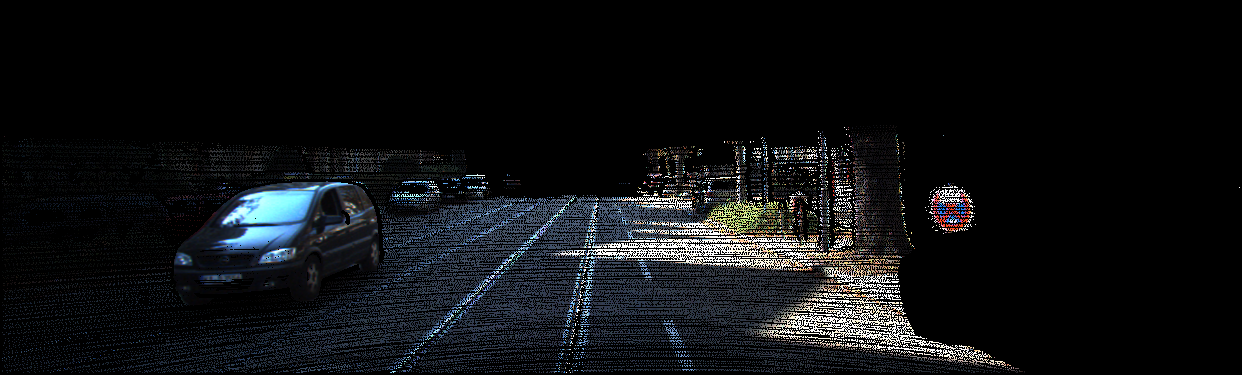
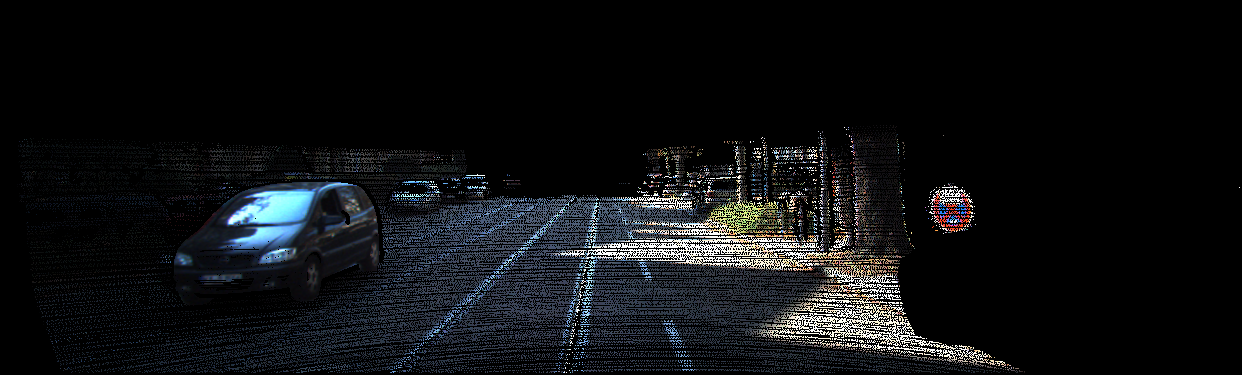
add standard 3D projection pipeline

diff --git a/points_vis.py b/points_vis.py
@@ -90,15 +90,22 @@ def kitti_project_depth(src_depth):
     import imageio
     imageio.imwrite('projected_depth.png', projected_depth)
 
-def kitti_sample_world_coords(left_image, left_disp, scale=1):
+def kitti_sample_world_coords(right_image, left_image, left_disp, scale=2):
+    # project right view to left view given left view direction
     # scale test
     mask = (left_disp > 0) & (left_disp < 192)
-    left_disp = left_disp * mask - 10
+    # mask = F.avg_pool2d(mask.float(), (4, 4), stride=2) > 0.25
+    # right_image = F.avg_pool2d(right_image, (2, 2), stride=2)
     # left_image = F.avg_pool2d(left_image, (2, 2), stride=2)
     # left_disp = F.avg_pool2d(left_disp, (2, 2), stride=2) / scale
+    right_image = F.interpolate(right_image, scale_factor=0.5, mode='bilinear')
+    left_image = F.interpolate(left_image, scale_factor=0.5, mode='bilinear')
+    left_disp = F.interpolate(left_disp[None], scale_factor=0.5, mode='bilinear') / scale
+    mask = F.interpolate(mask[None].float(), scale_factor=0.5, mode='bilinear') > 0.5
+    # left_disp = left_disp * mask + 3
 
     focal_length = 721.277 / scale
-    N, C, H, W = left_image.shape
+    N, C, H, W = right_image.shape
     left_depth = (0.54 * focal_length) / (left_disp + 1e-6)
     left_depth = left_depth.view(-1, 1)
     # convert camera coords to world coords
@@ -106,16 +113,86 @@ def kitti_sample_world_coords(left_image, left_disp, scale=1):
     
     # compute right world coods
     world_coords_xy = camera_coords / focal_length * left_depth
-    world_coords_xy[:, 0] = (world_coords_xy[:, 0])
+    world_coords_xy[:, 0] = world_coords_xy[:, 0] - 0.54
     world_coords = torch.cat((world_coords_xy, left_depth), dim=-1)
     right_sample_coords = world_coords[:, :-1] / world_coords[:, -1:] * focal_length
-    
+
     right_sample_coords = right_sample_coords.view(1, H, W, -1).permute(0, 3, 1, 2)
     right_image_sampled = normalize_coords(right_sample_coords)
-    warped_img = F.grid_sample(left_image, right_image_sampled, mode='bilinear', padding_mode='border')
+    warped_img = F.grid_sample(right_image, right_image_sampled, mode='nearest', padding_mode='zeros')
     warped_img = warped_img * mask
+    
+    # warping by disparity
+    warped_left, valid_mask = disp_warp(right_image, left_disp)
+    warped_left = warped_left * mask  
+    TensorToPILImage(warped_left[0], saving_path='disp_warped_right.png')
+
     TensorToPILImage(warped_img[0], saving_path='warped_right.png')
     TensorToPILImage(left_image[0], saving_path='scale_left.png')
+
+def kitti_sample_pipeline(right_image, left_image, left_disp, scale=1):
+    mask = (left_disp > 0) & (left_disp < 192)
+    H, W = right_image.shape[-2:]
+    baseline = 0.54
+    focal_length = 721.277
+    if scale > 1:
+        mask = F.avg_pool2d(mask.float(), (2, 2), stride=2) > 0
+        right_image = F.avg_pool2d(right_image, (2, 2), stride=2)
+        left_image = F.avg_pool2d(left_image, (2, 2), stride=2)
+        left_disp = F.avg_pool2d(left_disp, (2, 2), stride=2) / scale
+        focal_length = focal_length / scale
+    
+    K = torch.Tensor(np.array([
+        [721.277, 0., 0.5 * H],
+        [0., 721.277, 0.5 * W],
+        [0., 0., 1.]
+    ]))
+
+    Rt = torch.Tensor(np.array([
+        [1, 0, 0, -baseline],
+        [0, 1, 0, 0],
+        [0, 0, 1, 0],
+    ]))
+
+    direction = get_ray_directions(left_disp, focal_length)
+    rays_d, rays_o = get_rays(direction, Rt)
+    
+    depth = focal_length * baseline / (left_disp + 1e-6).view(-1, 1)
+    world_coord = rays_o + depth * rays_d
+    
+    # world to pixel coord
+    world_coord[:, 0] = world_coord[:, 0] / world_coord[:, -1] * focal_length + 0.5 * H
+    world_coord[:, 1] = world_coord[:, 1] / world_coord[:, -1] * focal_length + 0.5 * W
+    camera_coord = world_coord[:, :-1]
+    camera_coord = camera_coord.view(1, H, W, -1).permute(0, 3, 1, 2)
+    right_image_sampled = normalize_coords(camera_coord)
+    
+    warped_img = F.grid_sample(right_image, right_image_sampled, mode='bilinear', padding_mode='zeros')
+    warped_img = warped_img * mask
+    TensorToPILImage(warped_img[0], saving_path='warped_right.png')
+
+def get_ray_directions(left_disp, focal, center=None):
+    H, W = left_disp.shape[-2:]
+
+    camera_coords = generate_meshgrid(left_disp).view(-1, 2)
+    center = [H/2, W/2]
+    # convert pixel coord to camera coord
+
+    camera_coords[:, 0] = camera_coords[:, 0] - center[0]
+    camera_coords[:, 1] = camera_coords[:, 1] - center[1]
+    direction = camera_coords / focal
+    
+    direction  = torch.cat((direction, torch.ones(camera_coords.shape[0], 1)), dim=-1)
+    
+    return direction
+
+def get_rays(direction, c2w):
+    rays_d = direction @ c2w[:3, :3].T
+    rays_o = c2w[:3, -1].expand(rays_d.shape)       # H, W, 3
+    # rays_d = rays_d.view(-1, 3)
+    # rays_o = rays_o.view(-1, 3)
+    return rays_d, rays_o
+    
 
 def get_patches(rays_all, patch_size, num_patches, disp):
     '''
@@ -217,7 +294,12 @@ if __name__ == '__main__':
         
         # generate projected depth
         # kitti_project_depth(disp_tensor[:, None])
-        kitti_sample_world_coords(left_tensor[None], disp_tensor)
+
+        # pixel sample given coords
+        # kitti_sample_world_coords(right_tensor[None], left_tensor[None], disp_tensor)
+
+        # pixel sample following a standard rendering pipeline
+        kitti_sample_pipeline(right_tensor[None], left_tensor[None], disp_tensor)
         # prepare_kitti_dataset(left_tensor,right_tensor, disp_tensor, )
         # generate patches
         # left_tensor = left_tensor.permute(1, 2, 0).unsqueeze(dim=-2)
